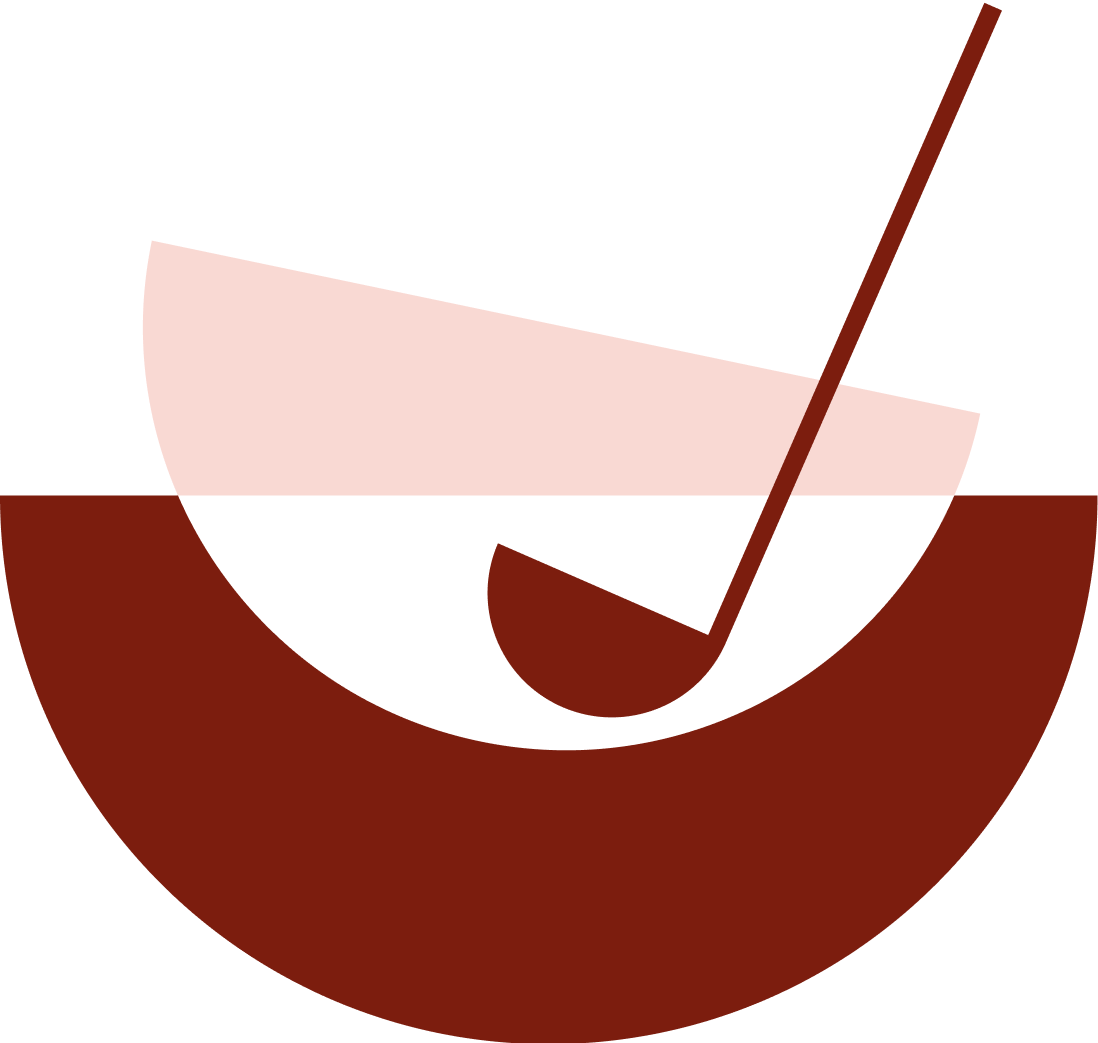
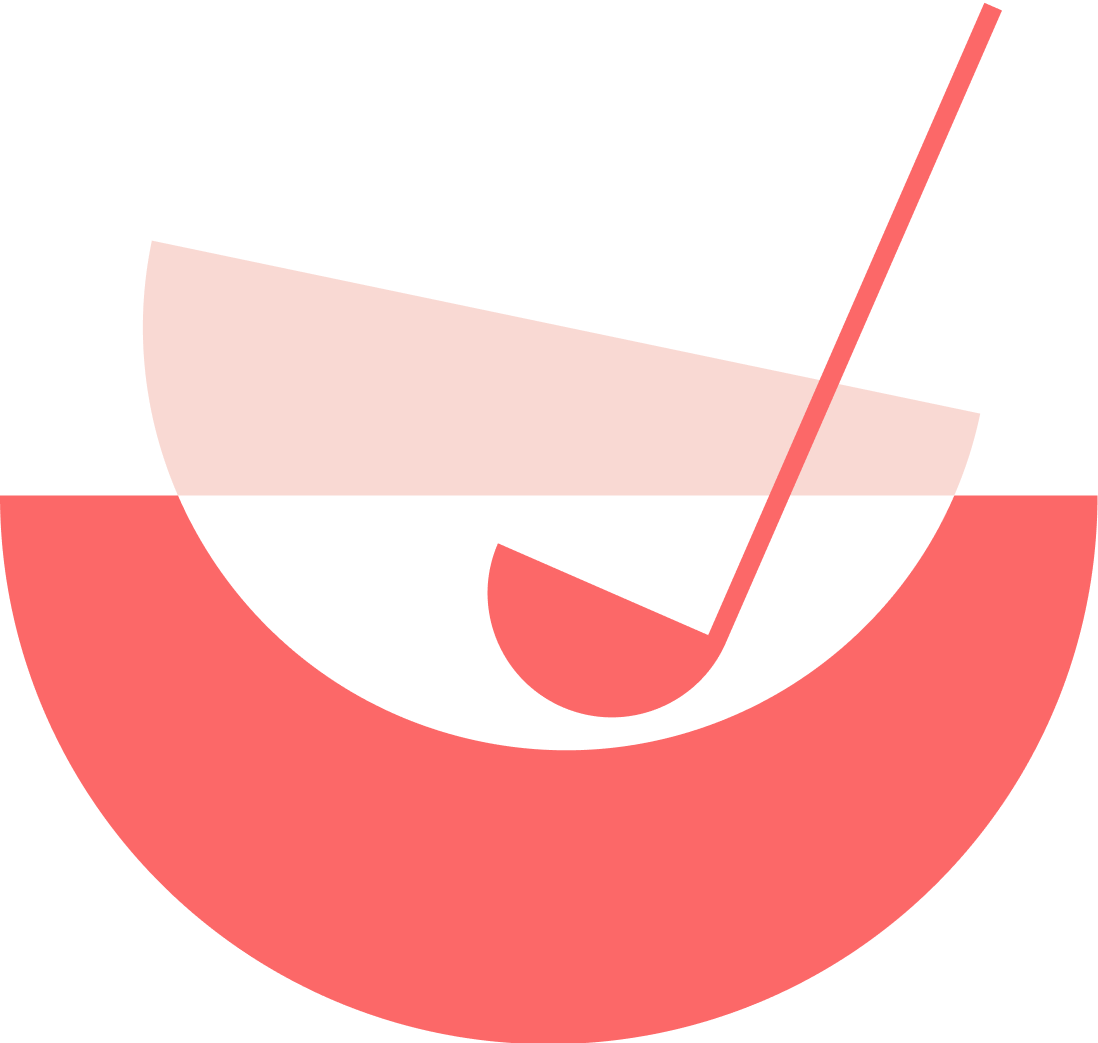
Adjusted themes by category

diff --git a/src/utils/theming.js b/src/utils/theming.js
@@ -52,6 +52,11 @@ const themeColors = {
     secondary: variables.colorMediumVermilion,
     tertiary: variables.colorKombuGreen,
   },
+  russianViolet: {
+    primary: variables.colorRussianViolet,
+    secondary: variables.colorPastelRed,
+    tertiary: variables.colorPalePink,
+  },
 }
 
 /* eslint-disable no-useless-computed-key */
@@ -65,31 +70,31 @@ export const themes = {
     img: imgFrutosDoMar,
   },
   ["Saudável"]: {
-    ...themeColors.peach,
+    ...themeColors.kombuGreen,
     img: imgSaudavel,
   },
   ["Asiática"]: {
-    ...themeColors.peach,
+    ...themeColors.flax,
     img: imgAsiatica,
   },
   ["Ingredientes"]: {
-    ...themeColors.palePink,
+    ...themeColors.peach,
     img: imgIngredientes,
   },
   ["Distribuidora"]: {
-    ...themeColors.palePink,
+    ...themeColors.peach,
     img: imgIngredientes,
   },
   ["Vegetariana"]: {
-    ...themeColors.peach,
+    ...themeColors.palePink,
     img: imgVegetariana,
   },
   ["Vegana"]: {
-    ...themeColors.peach,
+    ...themeColors.palePink,
     img: imgVegetariana,
   },
   ["Doces"]: {
-    ...themeColors.kenyanCopper,
+    ...themeColors.russianViolet,
     img: imgDoces,
   },
   ["Carnes"]: {
@@ -97,7 +102,7 @@ export const themes = {
     img: imgCarnes,
   },
   ["Pizza"]: {
-    ...themeColors.peach,
+    ...themeColors.flax,
     img: imgPizza,
   },
   ["Drinks"]: {
@@ -113,27 +118,27 @@ export const themes = {
     img: imgDrinks,
   },
   ["Brasileira"]: {
-    ...themeColors.mediumVermillion,
+    ...themeColors.russianViolet,
     img: imgTipica,
   },
   ["Árabe"]: {
-    ...themeColors.mediumVermillion,
+    ...themeColors.russianViolet,
     img: imgTipica,
   },
   ["Espanhola"]: {
-    ...themeColors.mediumVermillion,
+    ...themeColors.russianViolet,
     img: imgTipica,
   },
   ["Judaíca"]: {
-    ...themeColors.mediumVermillion,
+    ...themeColors.russianViolet,
     img: imgTipica,
   },
   ["Variada"]: {
-    ...themeColors.mediumVermillion,
+    ...themeColors.russianViolet,
     img: imgTipica,
   },
   ["Autoral"]: {
-    ...themeColors.mediumVermillion,
+    ...themeColors.russianViolet,
     img: imgTipica,
   },
   ["Mexicana"]: {
@@ -145,20 +150,20 @@ export const themes = {
     img: imgTodas,
   },
   ["Burgers"]: {
-    ...themeColors.mediumVermillion,
+    ...themeColors.blond,
     img: imgLanches,
   },
   ["Lanches"]: {
     ...themeColors.blond,
     img: imgLanches,
   },
-  ["Padaria"]: {
-    ...themeColors.kenyanCopper,
-    img: imgCafe,
-  },
   ["Sanduíches"]: {
     ...themeColors.blond,
     img: imgLanches,
+  },
+  ["Padaria"]: {
+    ...themeColors.kenyanCopper,
+    img: imgCafe,
   },
   ["Sorvetes"]: {
     ...themeColors.peach,

diff --git a/src/assets/styles/variables.scss b/src/assets/styles/variables.scss
@@ -8,6 +8,8 @@ $color-flax: #e4da97;
 $color-pale-pink: #f9d9d3;
 $color-blond: #fcf1be;
 $color-peach: #ffbea6;
+$color-russian-violet: #4e1e50;
+$color-pastel-red: #fc6868;
 
 /* FONT FAMILY */
 $font-sans-serif: Helvetica, Arial, sans-serif;
@@ -48,4 +50,6 @@ $bp-large: 992px;
   colorPalePink: $color-pale-pink;
   colorBlond: $color-blond;
   colorPeach: $color-peach;
+  colorRussianViolet: $color-russian-violet;
+  colorPastelRed: $color-pastel-red;
 }
